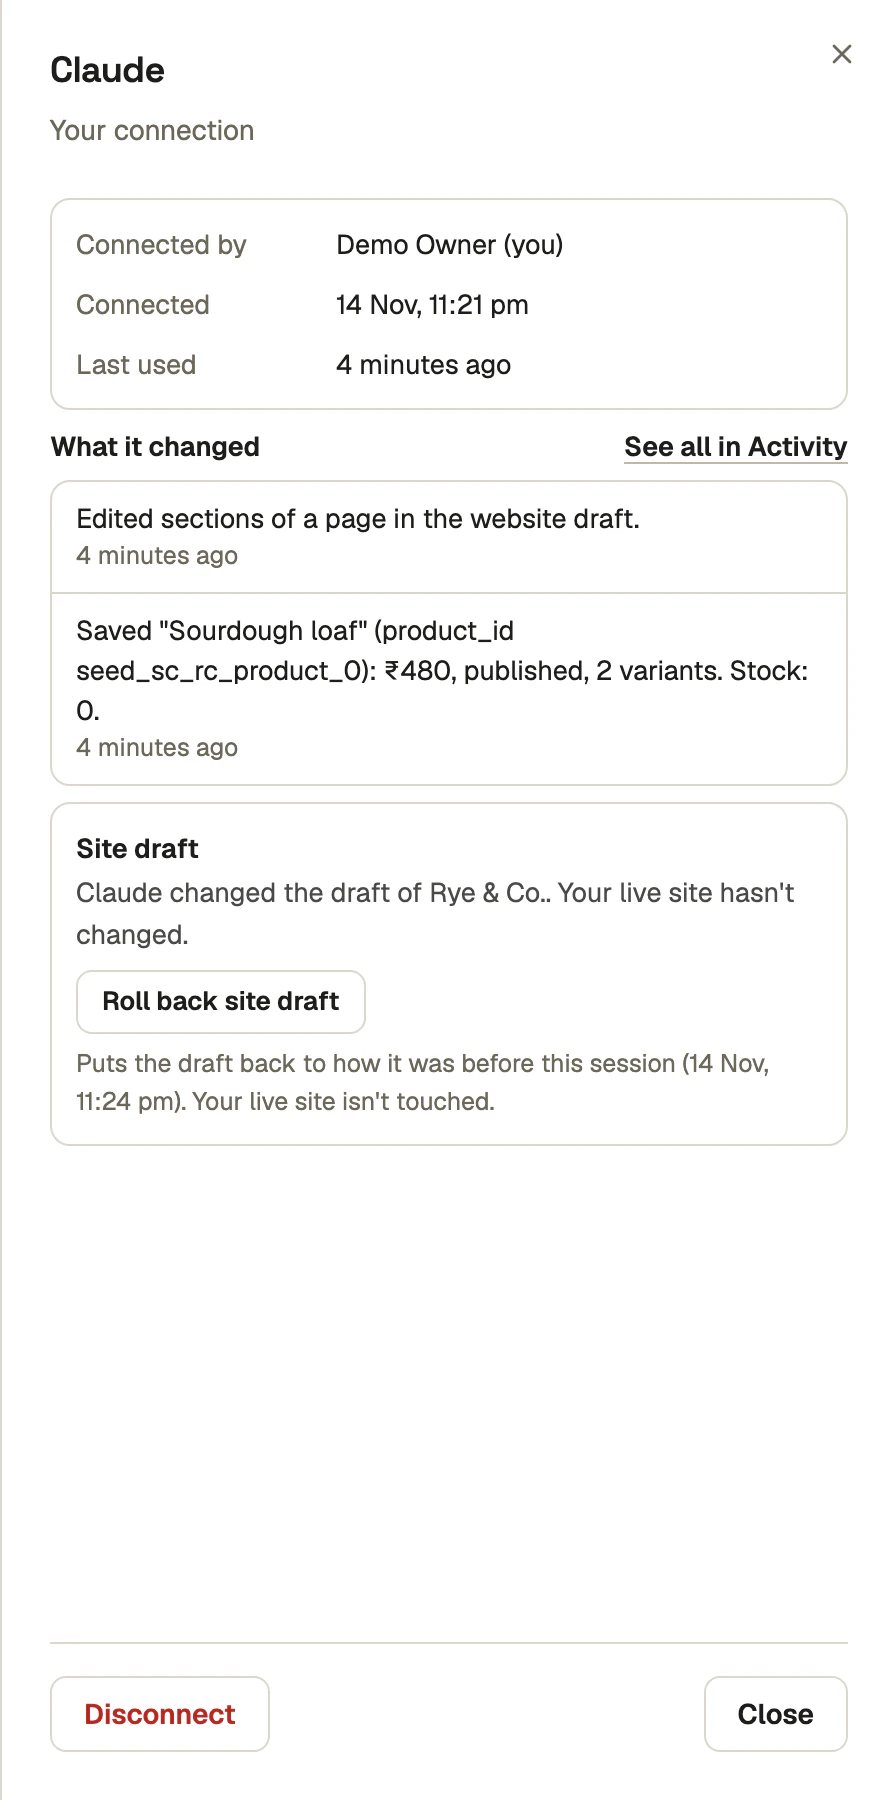
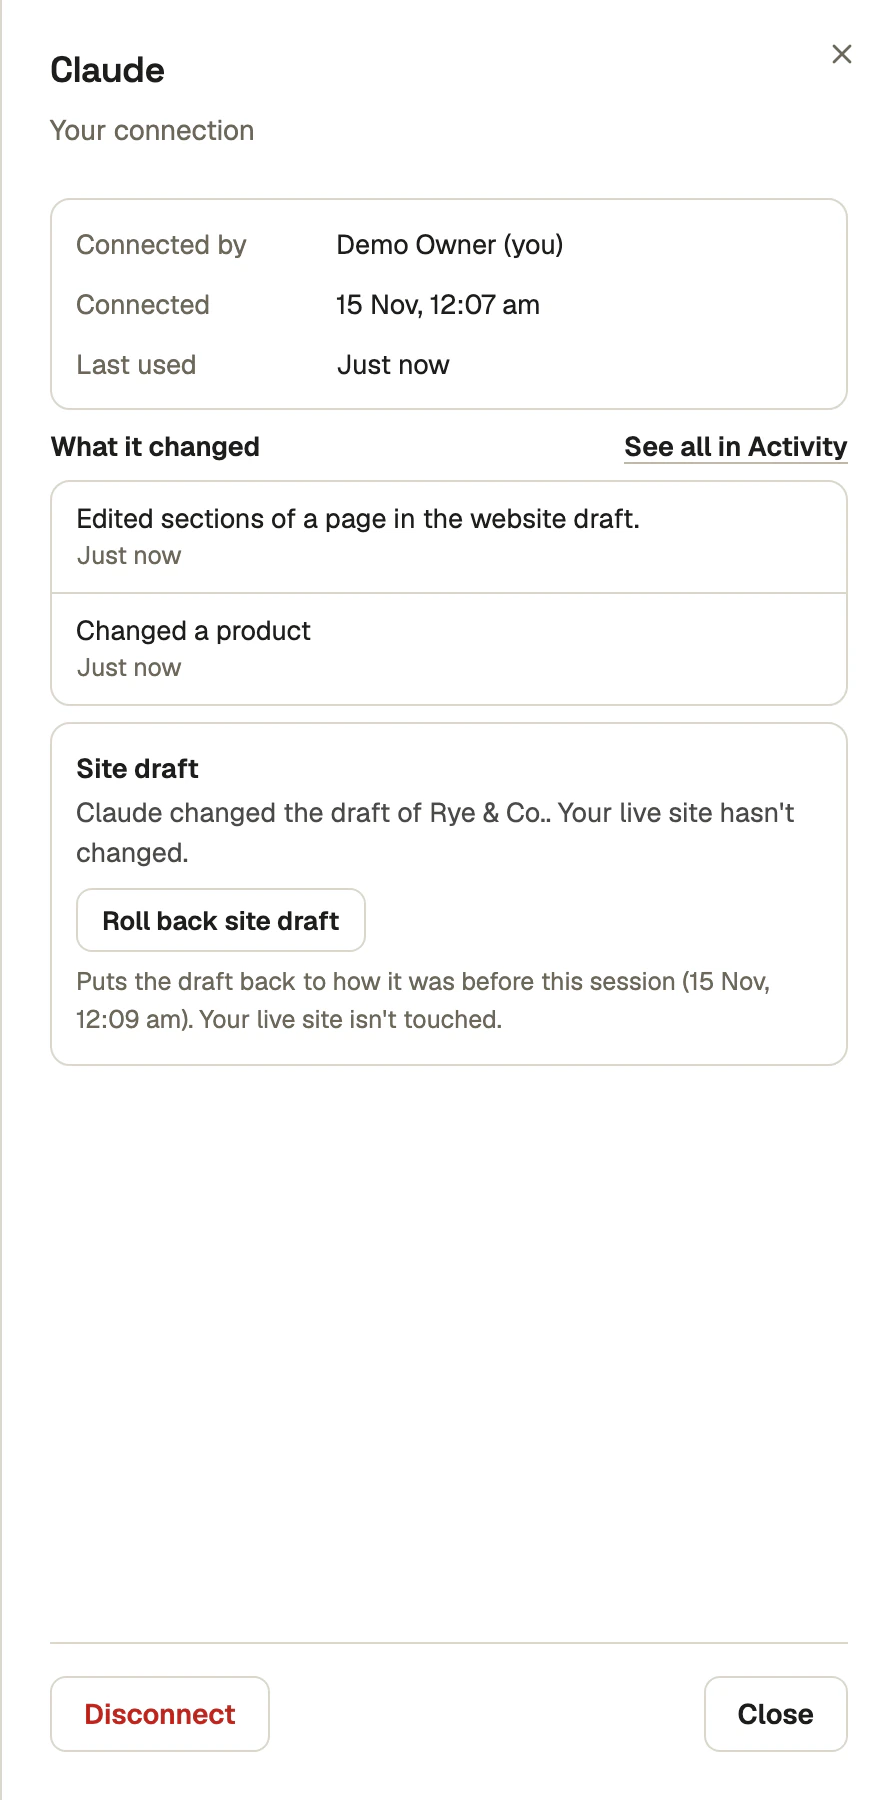
fix(mcp): an AI app's activity says what it did in Saroh's words, not its reply
A write tool with no summary of its own was listed in Settings by the first
line of the reply written for the AI app, ids and stock figures included
("Saved \"Sourdough loaf\" (product_id …): … Stock: 0."). It now says
the tool's title, done ("Changed a product"); a spec holds every write
tool's title to a verb the line knows. The activity shot is retaken.

diff --git a/apps/api.saroh.in/src/modules/mcp/tool-registry.ts b/apps/api.saroh.in/src/modules/mcp/tool-registry.ts
@@ -436,8 +436,7 @@ export class McpToolRegistry {
                         tool: tool.name,
                         target: result.activity?.target,
                         summary:
-                            result.activity?.summary ??
-                            result.text.split("\n")[0],
+                            result.activity?.summary ?? doneLine(tool.title),
                     }),
                 );
             }
@@ -510,6 +509,38 @@ export class McpToolRegistry {
  * An in-process call's input checked against the tool's contract, with
  * `business` dropped; or the refusal saying what doesn't fit.
  */
+/**
+ * A write tool's line in a business's AI activity when it gives no summary
+ * of its own: its title, done ("Change a product" → "Changed a product").
+ * Never the reply written for the AI app, which carries ids and figures a
+ * merchant shouldn't read (owner, 15 Nov 2026).
+ */
+const DONE: Record<string, string> = {
+    Add: "Added",
+    Book: "Booked",
+    Change: "Changed",
+    Delete: "Deleted",
+    Edit: "Edited",
+    Make: "Made",
+    Move: "Moved",
+    Prepare: "Prepared",
+    Remove: "Removed",
+    Set: "Set",
+    Start: "Started",
+    Take: "Took",
+    Undo: "Undid",
+    Write: "Wrote",
+};
+
+export function doneLine(title: string): string {
+    const [verb, ...rest] = title.split(" ");
+    const done = DONE[verb];
+    return done ? [done, ...rest].join(" ") : title;
+}
+
+/** Whether `doneLine` knows the title's verb: every write tool's must. */
+export const knowsDoneVerb = (title: string) => title.split(" ")[0] in DONE;
+
 export function parseInProcess(
     tool: McpTool,
     input: unknown,

diff --git a/apps/api.saroh.in/src/modules/mcp/done-line.spec.ts b/apps/api.saroh.in/src/modules/mcp/done-line.spec.ts
@@ -1,0 +1,35 @@
+import fs from "node:fs";
+import path from "node:path";
+
+import { doneLine, knowsDoneVerb } from "./tool-registry";
+
+describe("an AI app's activity line (doneLine)", () => {
+    it("says a tool's title as done, never the reply to the app", () => {
+        expect(doneLine("Change a product")).toBe("Changed a product");
+        expect(doneLine("Undo this conversation's website changes")).toBe(
+            "Undid this conversation's website changes",
+        );
+        expect(doneLine("Look up a thing")).toBe("Look up a thing");
+    });
+
+    it("knows the verb of every tool that writes", () => {
+        const dir = path.join(__dirname, "tools");
+        const unknown: string[] = [];
+        for (const file of fs.readdirSync(dir)) {
+            if (!file.endsWith(".tools.ts")) continue;
+            const src = fs.readFileSync(path.join(dir, file), "utf8");
+            for (const m of src.matchAll(/title: "([^"]+)"/g)) {
+                // The tool's hints follow its title in its definition.
+                const after = src.slice(m.index, m.index + 800);
+                const hints = /hints:\s*([A-Z_]+|\{[^}]*\})/.exec(after)?.[1];
+                const readOnly =
+                    hints === "READ_ONLY" ||
+                    /readOnlyHint:\s*true/.test(hints ?? "");
+                if (hints && !readOnly && !knowsDoneVerb(m[1])) {
+                    unknown.push(`${file}: ${m[1]}`);
+                }
+            }
+        }
+        expect(unknown).toEqual([]);
+    });
+});
